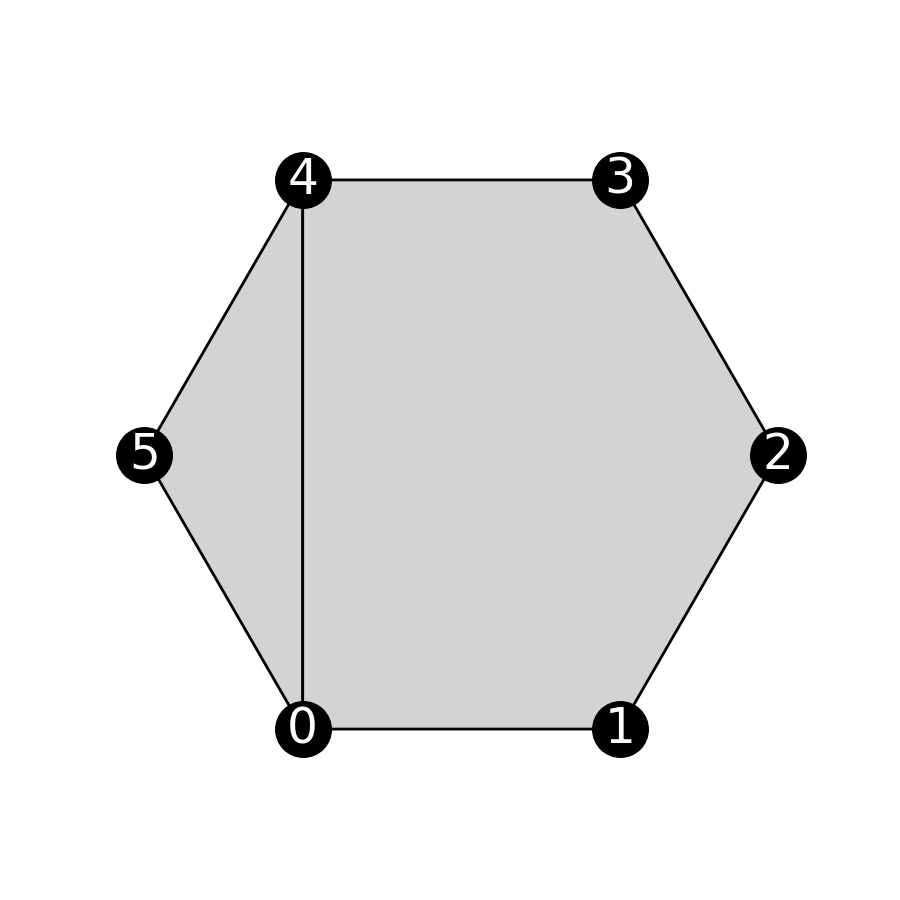
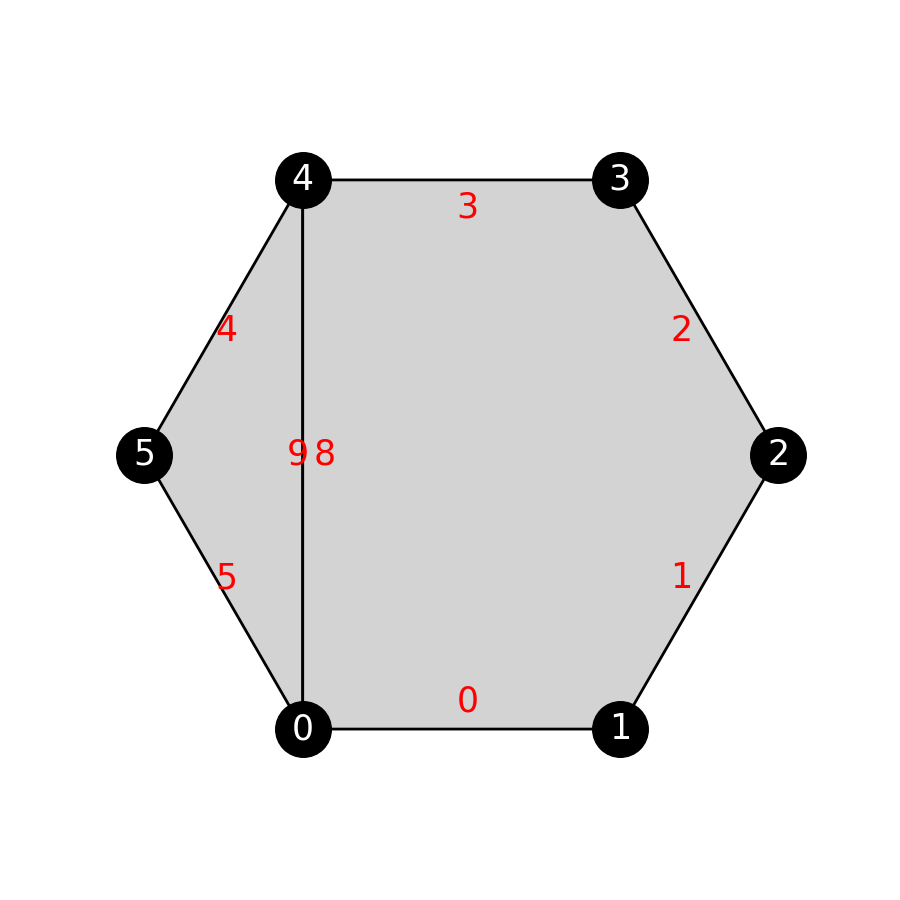
added operations to docs

diff --git a/examples/topological_operations.py b/examples/topological_operations.py
@@ -41,9 +41,9 @@ if __name__ == "__main__":
         graph,
         coords=graph.vertex_coordinates,
         label_vertices=True,
-        # label_halfedge=True,
+        label_halfedge=True,
         vertex_size=40,
-        fontsize=35,
+        fontsize=25,
         figsize=9
     )
     renderer.plot()

diff --git a/README.md b/README.md
@@ -130,10 +130,34 @@ supports the following edit operations:
 `src.tiler.Tiler.insert_half_edge(hidx, k)` inserts a new edge between source of `hidx` and target of the halfedge that
 is `k` `next` operations ahead. Consider the hexagonal example,
 
-![image](examples/figures/operations/initial.png)
+<img src="examples/figures/operations/initial.png" alt="drawing" width="500"/>
 
 ```python
-mesh.insert_half_edge(0, 1)
+mesh.insert_half_edge(0, 2)
 ```
 
+<img src="examples/figures/operations/insert-edge.png" alt="drawing" width="500"/>
 
+```python
+mesh.insert_vertex(6)
+```
+
+<img src="examples/figures/operations/insert-vertex.png" alt="drawing" width="500"/>
+
+```python
+mesh.insert_half_edge(7, 1)
+```
+
+<img src="examples/figures/operations/insert-edge2.png" alt="drawing" width="500"/>
+
+```python
+mesh.delete_half_edge(6)
+```
+
+<img src="examples/figures/operations/delete-edge.png" alt="drawing" width="500"/>
+
+```python
+mesh.delete_source_vertex(11)
+```
+
+<img src="examples/figures/operations/delete-vertex.png" alt="drawing" width="500"/>
